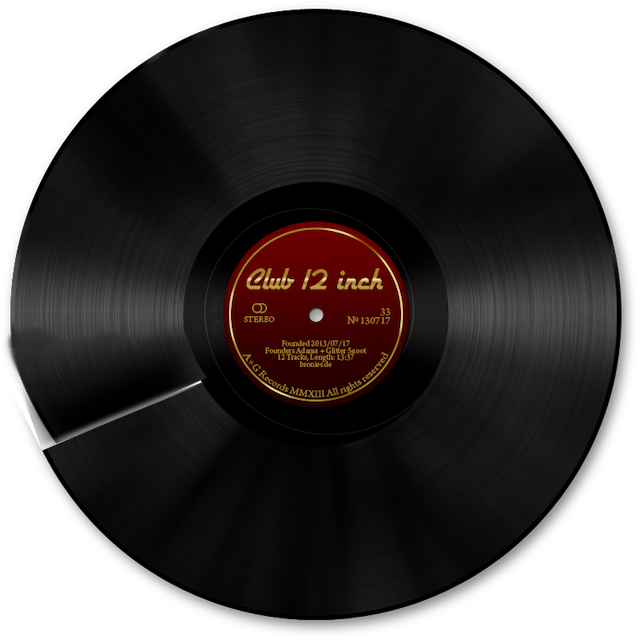
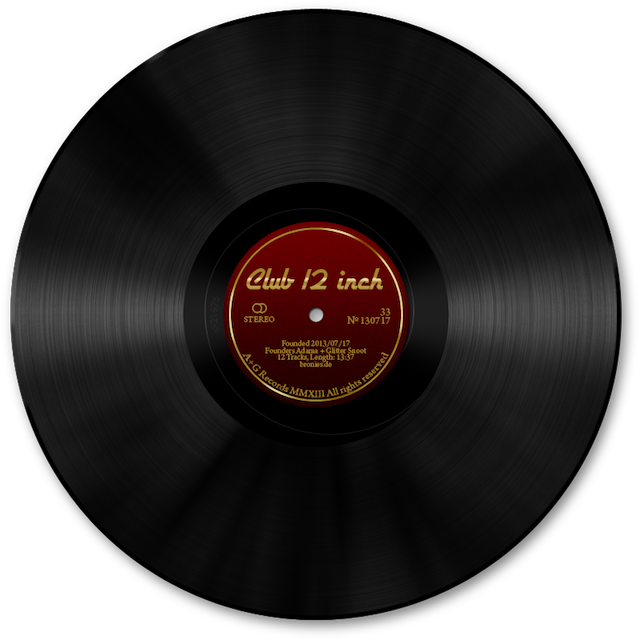
Visualization of keywordType selection with test graphics.

Changed region(s): [[0.0312, 0.5625, 0.3125, 0.7188], [0.0, 0.5312, 0.0312, 0.5938]]

diff --git a/app/Ctms.Presentation/Views/SearchTagView.xaml b/app/Ctms.Presentation/Views/SearchTagView.xaml
@@ -65,10 +65,12 @@
             <Grid Grid.Row="1" Grid.Column="1"
                   Visibility="{DynamicResource IsMenuVisible}" 
                   Height="{StaticResource PieMenuDiameter}" 
-                  Width="{StaticResource PieMenuDiameter}">
+                  Width="{StaticResource PieMenuDiameter}"
+                  DataContext="{DynamicResource TagDM}">
                 
                 <Grid.Background>
-                    <ImageBrush ImageSource="../../Resources/Images/Search/record2.png" Opacity="1.0"/>
+                    <!--<ImageBrush ImageSource="{StaticResource TitleImage}" Opacity="1.0"/>-->
+                    <ImageBrush ImageSource="{Binding BackgrImageSource}" Opacity="1.0"/>
                 </Grid.Background>
 
                 <Grid.RowDefinitions>
@@ -137,6 +139,7 @@
                 <Grid.RowDefinitions>
                     <RowDefinition/>
                     <RowDefinition/>
+                    <RowDefinition/>
                 </Grid.RowDefinitions>
 
                 <Grid.ColumnDefinitions>
@@ -152,31 +155,47 @@
                                  Command="{Binding SelectAttributeCmd}" 
                                  CommandParameter="{DynamicResource TagId}"
                                  Style="{StaticResource SearchViewBtn}"
-                                 />
+                                 >
+                    <s:SurfaceButton.Background>
+                        <ImageBrush ImageSource="../Resources/Images/Search/tag-backgr_attribute.png" Opacity="1.0"/>
+                    </s:SurfaceButton.Background>
+                </s:SurfaceButton>
                 
                 <s:SurfaceButton DataContext="{DynamicResource SearchVM}"
                                  Content="Genre" 
                                  Grid.Row="0" 
-                                 Grid.Column="1"
+                                 Grid.Column="2"
                                  Command="{Binding SelectGenreCmd}" 
                                  CommandParameter="{DynamicResource TagId}"
-                                 Style="{StaticResource SearchViewBtn}"/>
+                                 Style="{StaticResource SearchViewBtn}">
+                    <s:SurfaceButton.Background>
+                        <ImageBrush ImageSource="../Resources/Images/Search/tag-backgr_genre.png" Opacity="1.0"/>
+                    </s:SurfaceButton.Background>
+                </s:SurfaceButton>
 
                 <s:SurfaceButton DataContext="{DynamicResource SearchVM}"
                                  Content="Title" 
-                                 Grid.Row="1" 
+                                 Grid.Row="2" 
                                  Grid.Column="0"
                                  Command="{Binding SelectTitleCmd}" 
                                  CommandParameter="{DynamicResource TagId}"
-                                 Style="{StaticResource SearchViewBtn}"/>
-
+                                 Style="{StaticResource SearchViewBtn}">
+                    <s:SurfaceButton.Background>
+                        <ImageBrush ImageSource="../Resources/Images/Search/tag-backgr_title.png" Opacity="1.0"/>
+                    </s:SurfaceButton.Background>
+                </s:SurfaceButton>
+                
                 <s:SurfaceButton DataContext="{DynamicResource SearchVM}"
                                  Content="Artist" 
-                                 Grid.Row="1" 
-                                 Grid.Column="1"
+                                 Grid.Row="2" 
+                                 Grid.Column="2"
                                  Command="{Binding SelectArtistCmd}" 
                                  CommandParameter="{DynamicResource TagId}"
-                                 Style="{StaticResource SearchViewBtn}"/>
+                                 Style="{StaticResource SearchViewBtn}">
+                    <s:SurfaceButton.Background>
+                        <ImageBrush ImageSource="../Resources/Images/Search/tag-backgr_artist.png" Opacity="1.0"/>
+                    </s:SurfaceButton.Background>
+                </s:SurfaceButton>
             </Grid>
             <!--//Grid for keyword type selection-->
             

diff --git a/app/Ctms.Presentation/Resources/ImageResources.xaml b/app/Ctms.Presentation/Resources/ImageResources.xaml
@@ -3,10 +3,23 @@
     xmlns:x="http://schemas.microsoft.com/winfx/2006/xaml">
     
     <BitmapSource x:Key="BookLibraryImageSource">Images/ctms_icon.ico</BitmapSource>
-    
-    <!--<Image x:Key="SaveImage" x:Shared="False" Source="Images/Save.png" Height="16" Width="16"/>
-    
-    <Image x:Key="UndoImage" x:Shared="False" Source="Images/Undo.png" Height="16" Width="16"/>
+
+    <!--<BitmapSource x:Key="TitleImage" x:Shared="True" >Images/Search/tag-backgr_title.png</BitmapSource>
+    <BitmapSource x:Key="ArtistImage" x:Shared="True" >Images/Search/tag-backgr_artist.png</BitmapSource>
+    <BitmapSource x:Key="AttributeImage" x:Shared="True" >Images/Search/tag-backgr_attribute.png</BitmapSource>
+    <BitmapSource x:Key="GenreImage" x:Shared="True" >Images/Search/tag-backgr_genre.png</BitmapSource>-->
+
+    <!--<BitmapImage x:Key="TitleImage" x:Shared="True" UriSource="Images/Search/tag-backgr_title.png" ></BitmapImage>
+    <BitmapImage x:Key="ArtistImage" x:Shared="True" UriSource="Images/Search/tag-backgr_artist.png" ></BitmapImage>
+    <BitmapImage x:Key="AttributeImage" x:Shared="True" UriSource="Images/Search/tag-backgr_attribute.png" ></BitmapImage>
+    <BitmapImage x:Key="GenreImage" x:Shared="True" UriSource="Images/Search/tag-backgr_genre.png" ></BitmapImage>-->
+
+    <!--<BitmapSource x:Key="ArtistImage" x:Shared="True" Source="Images/Search/maske_dunkel.png" Height="240" Width="240"/>
+    <BitmapSource x:Key="AttributeImage" x:Shared="True" Source="Images/Search/record2.png" Height="240" Width="240"/>
+    <BitmapSource x:Key="GenreImage" rex:Shared="True" Source="Images/Search/record2.png" Height="240" Width="240"/>-->
+
+    <!--<Image x:Key="TitleImage" x:Shared="False" Source="Images/Search/tag-backgr_title.png" Height="240" Width="16"/>-->
+    <!--
     <Image x:Key="RedoImage" x:Shared="False" Source="Images/Redo.png" Height="16" Width="16"/>
     <Image x:Key="CutImage" x:Shared="False" Source="Images/Cut.png" Height="16" Width="16"/>
     <Image x:Key="CopyImage" x:Shared="False" Source="Images/Copy.png" Height="16" Width="16"/>

diff --git a/app/Ctms.Applications/Workers/SearchOptionWorker.cs b/app/Ctms.Applications/Workers/SearchOptionWorker.cs
@@ -18,6 +18,7 @@ using MusicSearch.ResponseObjects;
 using System.Collections.ObjectModel;
 using System.ComponentModel;
 using System.Diagnostics;
+using Ctms.Applications.Common;
 
 namespace Ctms.Applications.Workers
 {
@@ -123,6 +124,9 @@ namespace Ctms.Applications.Workers
                         tagDM.Tag.AssignedKeyword = _tagFactory.CreateKeyword(selectedTagOption.Keyword.Name, selectedTagOption.Keyword.Type);
 
                         SetInputIsVisible(tagDM, true);
+
+                        if (keywordType == KeywordTypes.Artist) tagDM.BackgrImageSource = CommonVal.ImageSource_TagBackgrArtist;
+                        if (keywordType == KeywordTypes.Title) tagDM.BackgrImageSource = CommonVal.ImageSource_TagBackgrTitle;
                     }
                     else if (keywordType == KeywordTypes.Genre)
                     {   // load top genres
@@ -137,9 +141,12 @@ namespace Ctms.Applications.Workers
 
                             tagDM.Tag.TagOptions.Add(genreOption);
                         }
+
+                        tagDM.BackgrImageSource = CommonVal.ImageSource_TagBackgrGenre;
                     }
                     else if (keywordType == KeywordTypes.Attribute)
                     {   // load attributes
+                        tagDM.BackgrImageSource = CommonVal.ImageSource_TagBackgrAttribute;
                     }
 
                     SetKeywordTypesIsVisible(tagDM, false);
@@ -186,21 +193,10 @@ namespace Ctms.Applications.Workers
             // update menu
             _searchVM.UpdateVisuals(tagDM);
         }
-        /*
-        // Confirm current
-        internal void ConfirmBreadcrumb(int tagId)
-        {
-            var tagDM           = _repository.GetTagDMById(tagId);
-            var breadcrumbOptions = tagDM.Tag.BreadcrumbOptions;
-            if (breadcrumbOptions != null && breadcrumbOptions.Any())
-            {
-                var breadcrumbOption = breadcrumbOptions.LastOrDefault();
-                SetConfirmBreadcrumbIsVisible(tagDM, false);
-                AssignKeyword(tagDM, breadcrumbOption);
-                //SelectOption(breadcrumbOption.Id);
-            }
-        }*/
 
+        /// <summary>
+        /// Load artist or title suggestions for a tag
+        /// </summary>
         public void LoadSuggestions(int tagId)
         {
             var tagDM       = _repository.GetTagDMById(tagId);
@@ -239,6 +235,9 @@ namespace Ctms.Applications.Workers
             _searchVM.UpdateVisuals(tagDM);
         }
 
+        /// <summary>
+        /// Do work of getting suggestions for artists in background
+        /// </summary>
         public void GetArtistsSuggestionsInBackgr(object sender, DoWorkEventArgs e)
         {
             var tagDM = (TagDataModel) e.Argument;

diff --git a/app/Ctms.Applications/DataModels/TagDataModel.cs b/app/Ctms.Applications/DataModels/TagDataModel.cs
@@ -47,6 +47,7 @@ namespace Ctms.Applications.DataModels
         private int activeOptionsIndex;
         private bool _isKeywordTypesVisible;
         private bool _isConfirmBreadcrumbVisible;
+        private string _backgrImageSource;
 
         public int CurrentOptionsIndex { get { return (int)activeOptionsIndex; } }
 
@@ -279,6 +280,22 @@ namespace Ctms.Applications.DataModels
                 {
                     _width = value;
                     RaisePropertyChanged("Width");
+                }
+            }
+        }
+
+        public string BackgrImageSource
+        {
+            get
+            {
+                return _backgrImageSource;
+            }
+            set
+            {
+                if (_backgrImageSource != value)
+                {
+                    _backgrImageSource = value;
+                    RaisePropertyChanged("BackgrImageSource");
                 }
             }
         }

diff --git a/app/Ctms.Applications/Common/CommonVal.cs b/app/Ctms.Applications/Common/CommonVal.cs
@@ -36,7 +36,10 @@ namespace Ctms.Applications.Common
         public static string Path_ApplicationsFilesPath { get; set; }
         public static string Path_ViewsPath             { get; set; }
 
-        
+        public static string ImageSource_TagBackgrArtist    = "../Resources/Images/Search/tag-backgr_artist.png";
+        public static string ImageSource_TagBackgrTitle     = "../Resources/Images/Search/tag-backgr_title.png";
+        public static string ImageSource_TagBackgrAttribute = "../Resources/Images/Search/tag-backgr_attribute.png";
+        public static string ImageSource_TagBackgrGenre     = "../Resources/Images/Search/tag-backgr_genre.png";
 
     }
 }

diff --git a/app/Ctms.Presentation/DesignData/SampleShellViewModel.cs b/app/Ctms.Presentation/DesignData/SampleShellViewModel.cs
@@ -55,6 +55,12 @@ namespace Ctms.Presentation.DesignData
             {
                 if (Closed != null) { Closed(this, e); }
             }
+            /*
+            public string GetResourcePath(string name)
+            {
+                return "";
+            }*/
+
         }
     }
 }

diff --git a/app/Ctms.Presentation/Views/SearchTagView.xaml.cs b/app/Ctms.Presentation/Views/SearchTagView.xaml.cs
@@ -11,6 +11,7 @@ using System.Windows.Input;
 using System.Windows.Data;
 using Microsoft.Surface.Presentation.Controls;
 using System.Windows.Media;
+using System.Windows.Media.Imaging;
 
 namespace Ctms.Presentation.Views
 {
